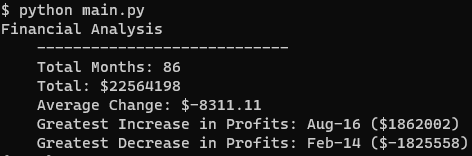
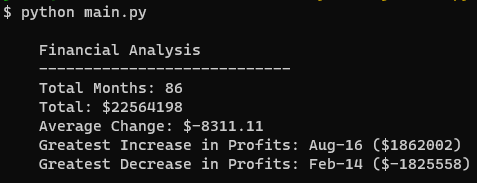
final edits

diff --git a/PyBank/main.py b/PyBank/main.py
@@ -77,13 +77,15 @@ def do_stuff(data):
 
 # prints everything to terminal
 def print_output(months, total_change, avg_change, increase, decrease):
-    output = f"""Financial Analysis
+    output = f"""
+    Financial Analysis
     ----------------------------
     Total Months: {months}
     Total: ${total_change}
     Average Change: ${avg_change}
     Greatest Increase in Profits: {increase}
-    Greatest Decrease in Profits: {decrease}"""
+    Greatest Decrease in Profits: {decrease}
+    """
     return output
 
 
